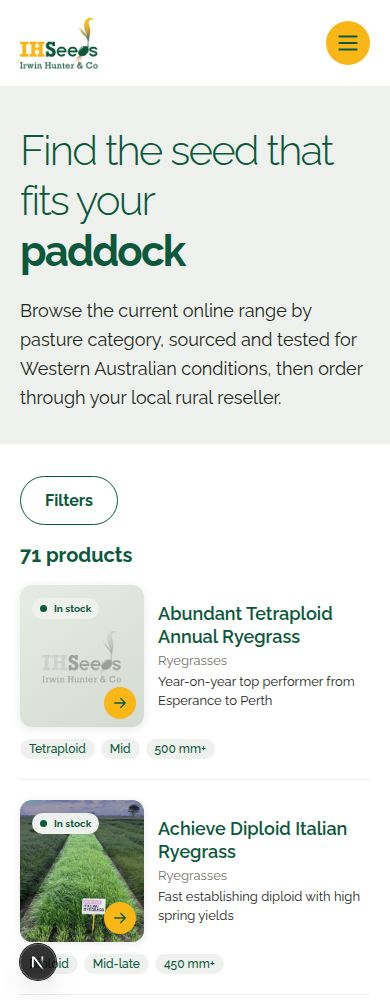
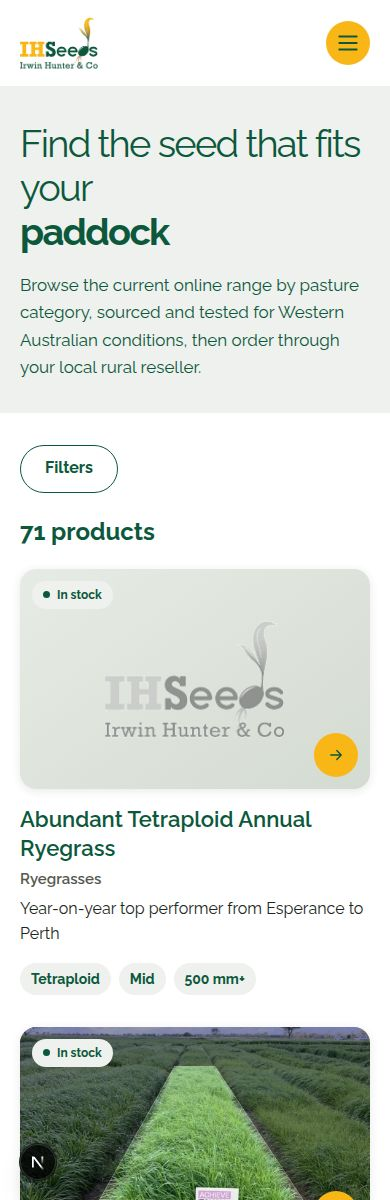
Match mobile catalogue product cards
Replit-Task-Id: cb6dc1ca-3ad8-4733-99f3-ce764944a14f
Replit-Merge-Attempt: MergeTask:cb6dc1ca-3ad8-4733-99f3-ce764944a14f:1:34c2ae2e

diff --git a/artifacts/web/app/public-v2.css b/artifacts/web/app/public-v2.css
@@ -1061,97 +1061,145 @@
 }
 
 @media (max-width: 600px) {
+  .products-intro {
+    gap: 18px !important;
+    padding: 36px 20px 32px !important;
+  }
+  .products-intro h1 {
+    font-size: 38px !important;
+    line-height: 1.16 !important;
+    font-weight: 400 !important;
+  }
+  .products-intro p {
+    max-width: none !important;
+    font-size: 17px !important;
+    line-height: 1.6 !important;
+    color: var(--green) !important;
+  }
   .products-page-content {
     padding: 32px 20px 56px !important;
   }
   .product-listing-layout {
-    gap: 18px;
+    gap: 24px;
+  }
+  .product-filter-toggle {
+    min-height: 48px;
+    padding: 12px 24px;
+    font-size: 16px;
+    font-weight: 700;
   }
   .product-listing-count {
-    margin-bottom: 18px;
-    font-size: 20px;
+    margin-bottom: 22px;
+    font-size: 24px;
+    line-height: 1.25;
   }
   .category-card-grid {
-    gap: 20px !important;
+    gap: 32px !important;
   }
   .catalogue-product-card {
-    grid-template-areas:
-      "media details"
-      "facts facts";
-    grid-template-columns: 124px minmax(0, 1fr);
-    display: grid;
-    gap: 12px 14px;
-    padding-bottom: 20px;
-    border-bottom: 1px solid var(--line);
-  }
-  .catalogue-product-card:last-child {
-    padding-bottom: 0;
-    border-bottom: 0;
+    display: flex;
+    flex-direction: column;
+    gap: 16px;
+    min-width: 0;
   }
   .catalogue-product-media {
-    grid-area: media;
-    min-height: 0;
-    height: 142px;
-    border-radius: 12px;
+    width: 100%;
+    min-height: 220px;
+    height: auto;
+    aspect-ratio: 16 / 10;
+    border-radius: 16px;
   }
   .catalogue-product-image {
     height: 100%;
   }
   .catalogue-product-card.is-photo-missing .product-fallback-logo {
-    width: 64%;
-    opacity: 0.42;
+    width: min(58%, 180px);
+    opacity: 0.5;
   }
   .catalogue-product-media .status-pill {
-    padding: 5px 8px;
-    font-size: 10px;
+    padding: 7px 11px;
+    font-size: 12px;
   }
   .catalogue-product-media .product-new-stamp {
-    top: 7px;
-    right: 7px;
-    width: 48px;
-    height: 48px;
+    top: 10px;
+    right: 10px;
+    width: 64px;
+    height: 64px;
   }
   .catalogue-product-arrow {
-    right: 8px;
-    bottom: 8px;
-    width: 32px;
-    height: 32px;
+    right: 12px;
+    bottom: 12px;
+    width: 44px;
+    height: 44px;
   }
   .catalogue-product-details {
-    grid-area: details;
-    align-self: center;
-    gap: 5px;
+    gap: 7px;
     min-width: 0;
   }
   .catalogue-product-name {
-    font-size: 18px;
+    font-size: 22px;
+    line-height: 1.3;
+    overflow-wrap: anywhere;
   }
   .catalogue-product-category {
-    font-size: 13px;
+    color: #55584f;
+    font-size: 15px;
+    font-weight: 600;
+    line-height: 1.4;
   }
   .product-card-tagline {
-    font-size: 13px;
-    line-height: 1.45;
+    font-size: 16px;
+    line-height: 1.55;
+    -webkit-line-clamp: 3;
   }
   .catalogue-product-facts {
-    grid-area: facts;
-    gap: 6px;
+    gap: 8px;
   }
   .catalogue-product-facts .fact-chip {
-    padding: 3px 9px;
-    font-size: 12px;
+    min-height: 32px;
+    padding: 6px 11px;
+    font-size: 14px;
+    font-weight: 650;
+  }
+  .product-filter-drawer-panel {
+    width: min(380px, 94vw);
+    padding: 24px 20px;
+  }
+  .product-filter-drawer-panel > .button {
+    min-height: 48px;
+    font-size: 16px;
+  }
+  .product-filter-clear {
+    min-height: 44px;
+    padding: 8px;
+    font-size: 15px;
+  }
+  .product-filter-option {
+    min-height: 40px;
+    font-size: 16px;
+  }
+  .product-filter-option input {
+    width: 20px;
+    height: 20px;
+  }
+  .product-filter-option select {
+    min-height: 46px;
+    font-size: 16px;
   }
 }
 
 @media (max-width: 360px) {
-  .catalogue-product-card {
-    grid-template-columns: 108px minmax(0, 1fr);
-    gap: 10px 12px;
+  .products-intro h1 {
+    font-size: 34px !important;
+  }
+  .products-page-content {
+    padding-inline: 16px !important;
   }
   .catalogue-product-media {
-    height: 132px;
+    min-height: 200px;
+    aspect-ratio: 4 / 3;
   }
   .catalogue-product-name {
-    font-size: 17px;
+    font-size: 21px;
   }
 }
